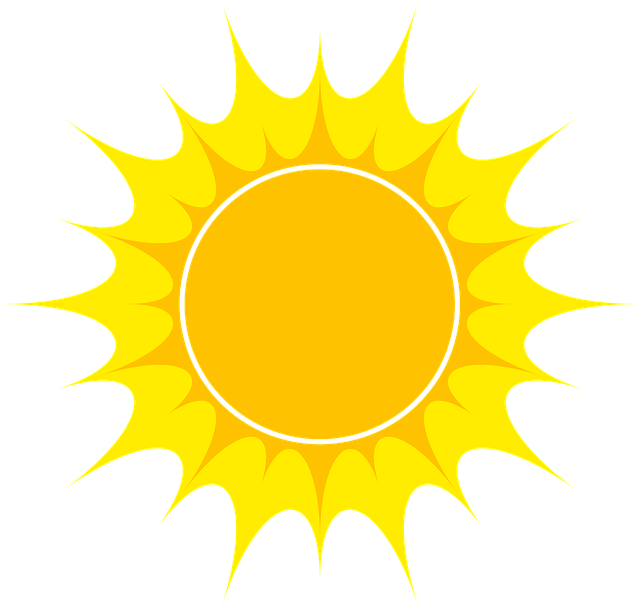
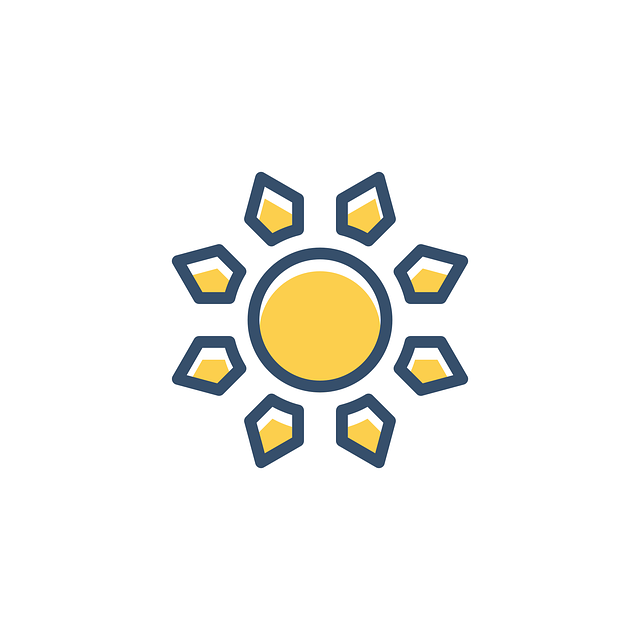
change photo

diff --git a/dist/js/app.min.js b/dist/js/app.min.js
@@ -1,2 +1,2 @@
-"use strict";var input=document.querySelector("input"),button=document.querySelector("button"),cityName=document.querySelector(".city-name"),warninng=document.querySelector(".warning"),photo=document.querySelector(".photo"),weather=document.querySelector(".weather"),temperature=document.querySelector(".temperature"),humidity=document.querySelector(".humidity"),wind=document.querySelector(".wind"),API_LINK="http://api.openweathermap.org/data/2.5/weather?q=",API_KEY="&appid=e2ae453678cc7a9c9e2f0267a7df42e7",API_UNITS="&units=metric",API_LANG="&lang=pl",getWeather=function(){var e=input.value||"Warszawa";axios.get(API_LINK+e+API_KEY+API_UNITS+API_LANG).then(function(e){console.log(e.data);var t=e.data.main.temp,a=e.data.weather[0].description,n=e.data.main.humidity,r=e.data.wind.speed;cityName.textContent=e.data.name,temperature.textContent=Math.floor(t)+" °C",humidity.textContent=n+" %",wind.textContent="".concat(3.6*r," km/h"),weather.textContent=a})};getWeather();
[1 lines of base64/hex data omitted]
+"use strict";var input=document.querySelector("input"),button=document.querySelector("button"),cityName=document.querySelector(".city-name"),warninng=document.querySelector(".warning"),photo=document.querySelector(".photo"),weather=document.querySelector(".weather"),temperature=document.querySelector(".temperature"),humidity=document.querySelector(".humidity"),wind=document.querySelector(".wind"),API_LINK="http://api.openweathermap.org/data/2.5/weather?q=",API_KEY="&appid=e2ae453678cc7a9c9e2f0267a7df42e7",API_UNITS="&units=metric",API_LANG="&lang=pl",getWeather=function(){var t=input.value||"Warszawa";axios.get(API_LINK+t+API_KEY+API_UNITS+API_LANG).then(function(t){console.log(t.data);var e=t.data.main.temp,a=t.data.weather[0].description,n=t.data.main.humidity,r=t.data.wind.speed;cityName.textContent=t.data.name,temperature.textContent=Math.floor(e)+" °C",humidity.textContent=n+" %",wind.textContent="".concat(Math.floor(3.6*r)," km/h"),weather.textContent=a})};button.addEventListener("click",getWeather);
[1 lines of base64/hex data omitted]

diff --git a/index.html b/index.html
@@ -28,7 +28,7 @@
                         <p class="badge badge-warning text-center my-2 px-2 w-100"></p>
                     </div>
                     <div class="photo-wrapper d-flex align-items-center justify-content-center">
-                        <img src="/dist/images/unknown.png" alt="Obrazek przedstawiający pogodę" class="photo">
+                        <img src="/dist/images/sun.png" alt="Obrazek przedstawiający pogodę" class="photo">
                     </div>
                 </div>
                 <div class="bottom-info col-11 d-flex justify-content-between align-items-center flex-wrap my-2">
@@ -56,7 +56,7 @@
     <script src="https://cdn.jsdelivr.net/npm/bootstrap@5.1.2/dist/js/bootstrap.min.js" text-center
         integrity="sha384-PsUw7Xwds7x08Ew3exXhqzbhuEYmA2xnwc8BuD6SEr+UmEHlX8/MCltYEodzWA4u"
         crossorigin="anonymous"></script>
-    <script src="../dist/js/app.min.js"></script>
+    <script src="/dist/js/app.min.js"></script>
 </body>
 
 </html>

diff --git a/src/js/app.js b/src/js/app.js
@@ -11,7 +11,7 @@ const wind = document.querySelector(".wind");
 const API_LINK = "http://api.openweathermap.org/data/2.5/weather?q=";
 const API_KEY = "&appid=e2ae453678cc7a9c9e2f0267a7df42e7";
 const API_UNITS = "&units=metric";
-const API_LANG = "&lang=pl"
+const API_LANG = "&lang=pl";
 
 const getWeather = () => {
   const city = input.value || "Warszawa";
@@ -26,9 +26,9 @@ const getWeather = () => {
     cityName.textContent = res.data.name;
     temperature.textContent = Math.floor(temp) + " °C";
     humidity.textContent = hum + " %";
-    wind.textContent = `${win * 3.6} km/h`;
+    wind.textContent = `${Math.floor(win * 3.6)} km/h`;
     weather.textContent = weath;
   });
 };
 
-getWeather();
+button.addEventListener("click", getWeather);
